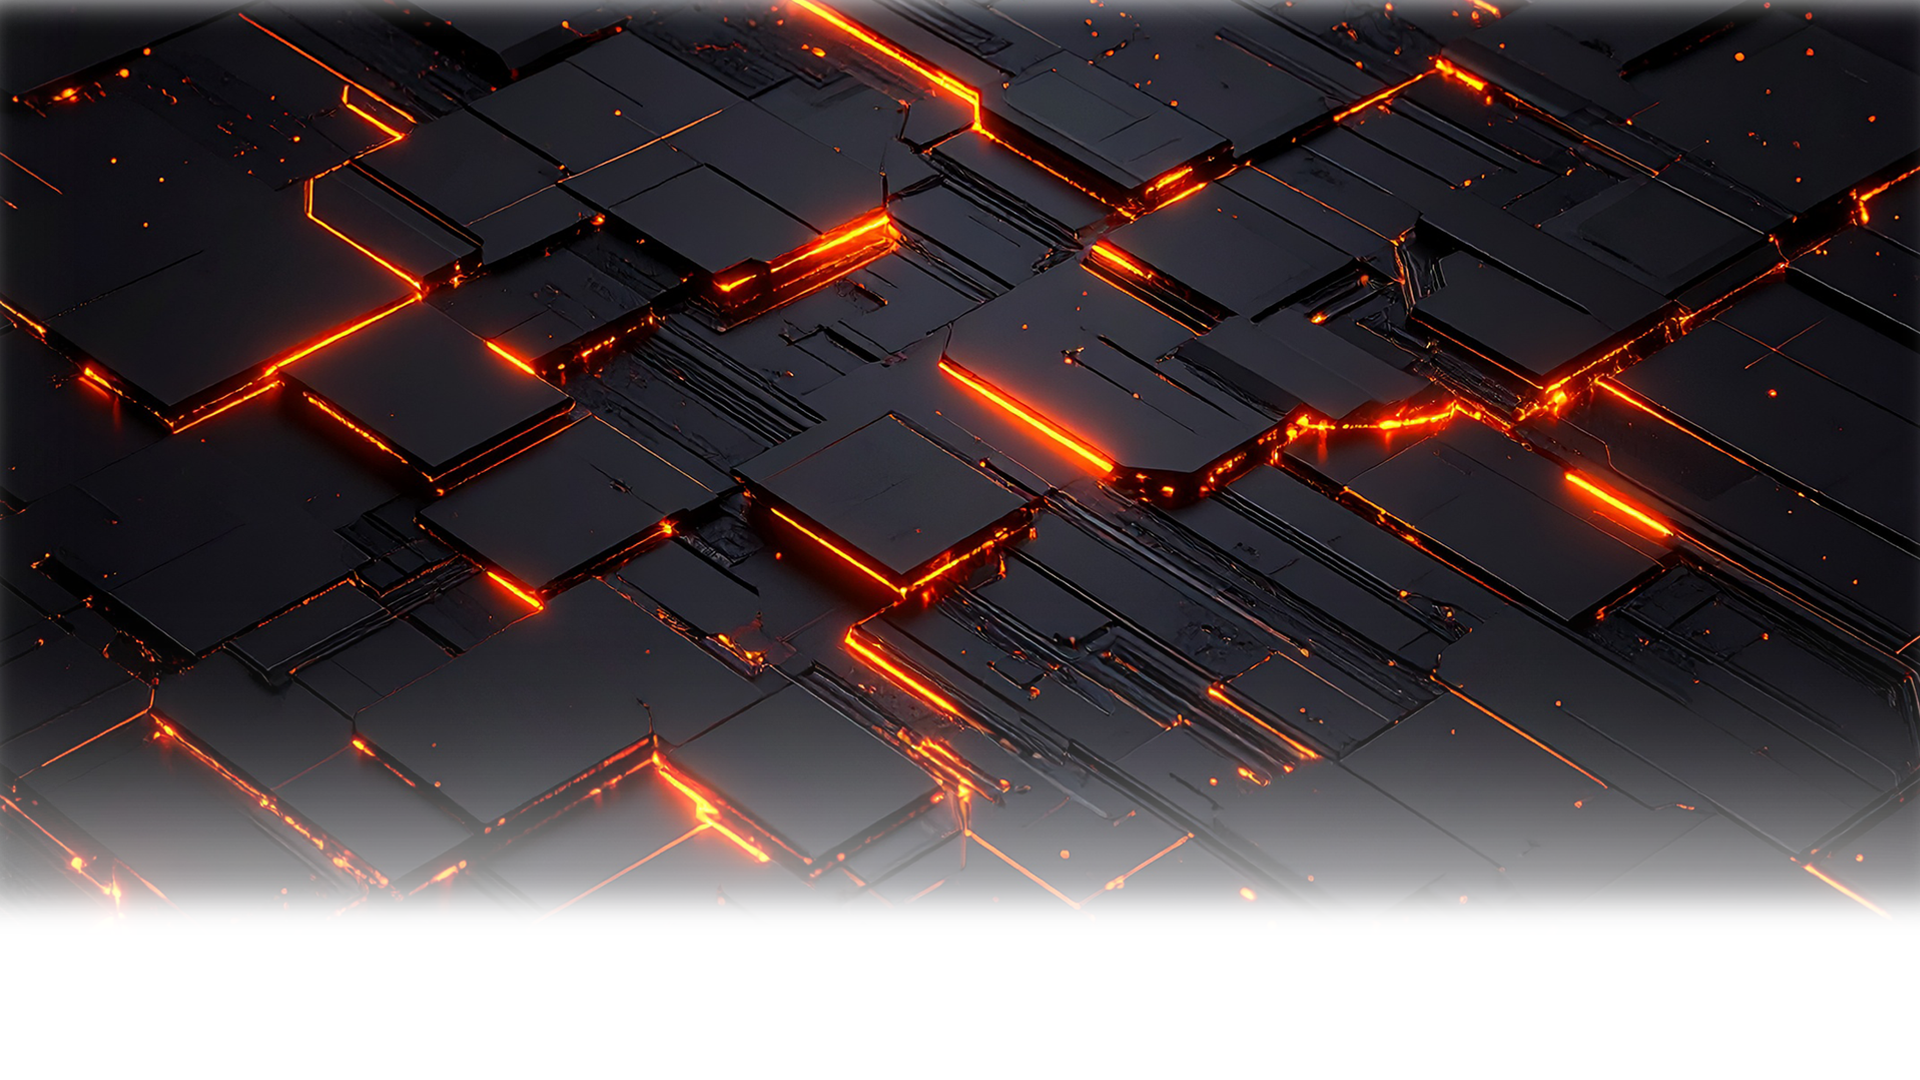
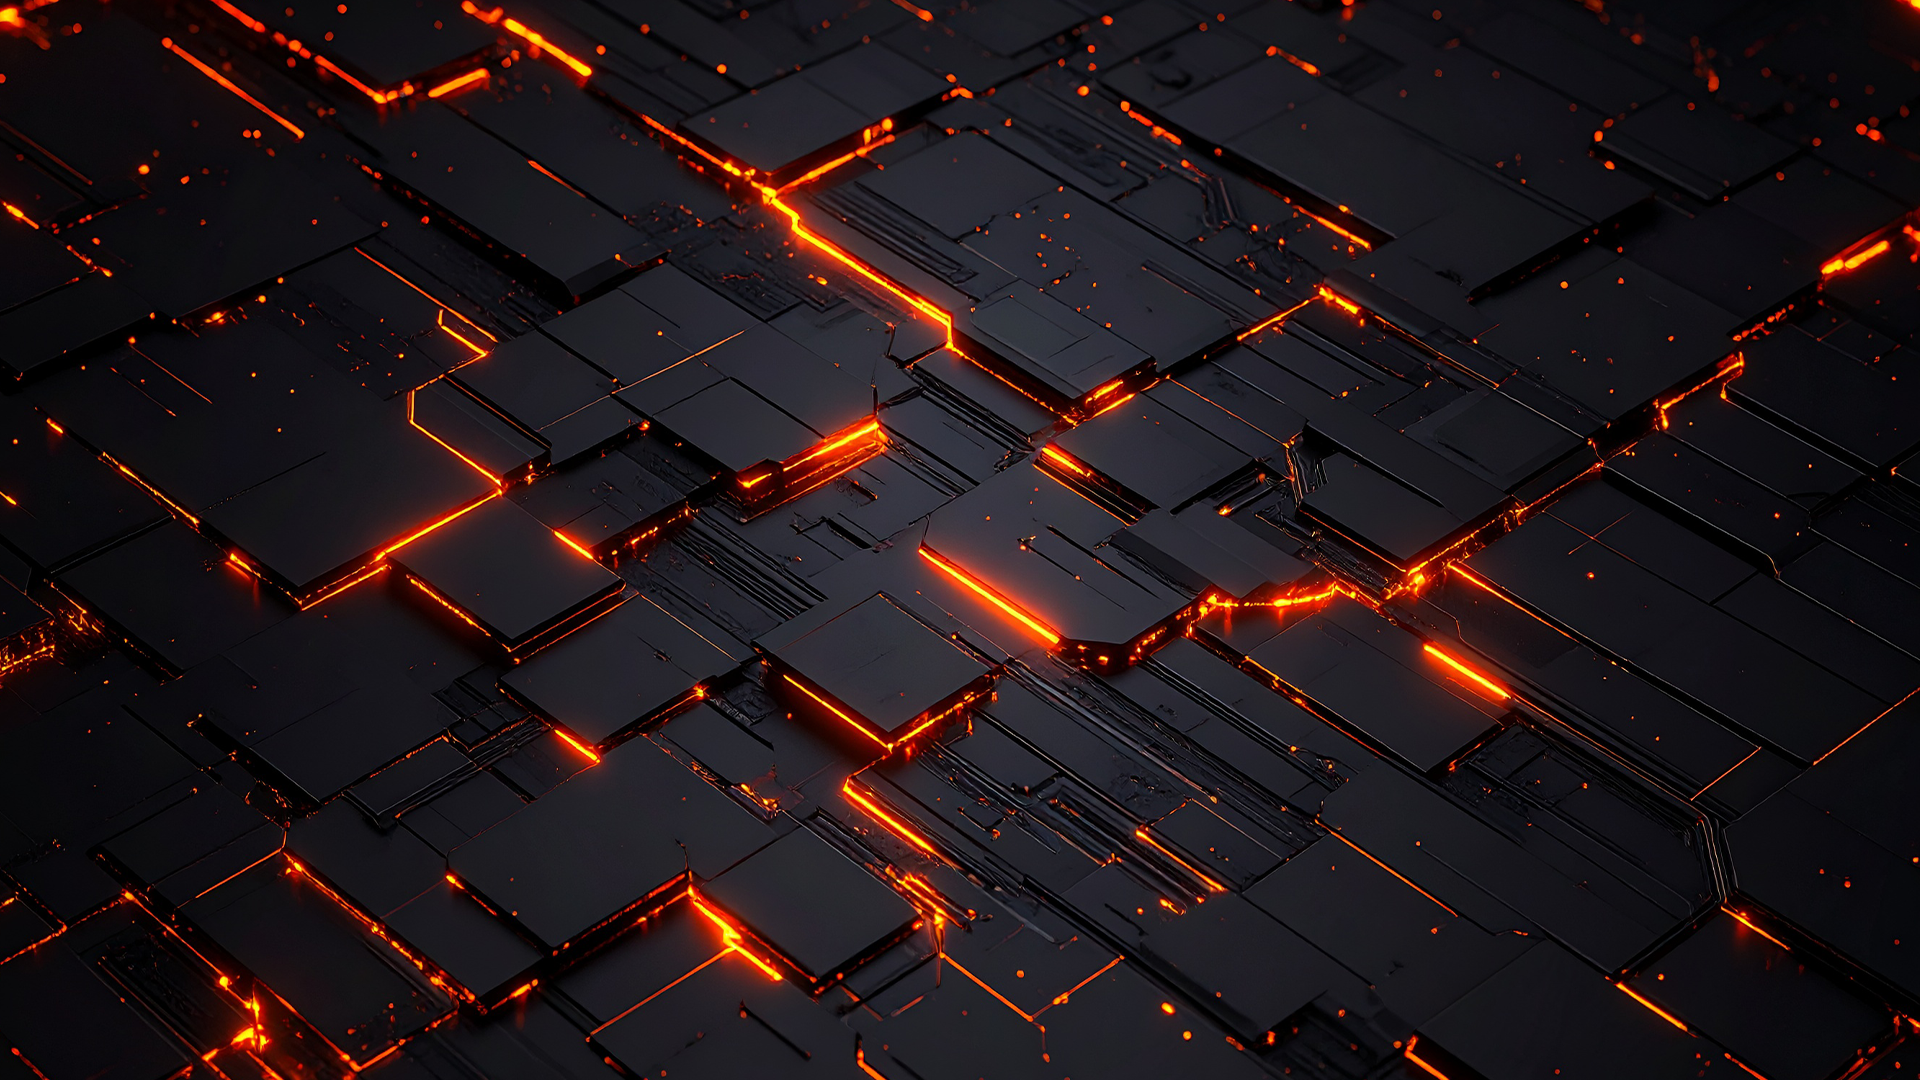
yay

diff --git a/mobile.css b/mobile.css
@@ -5,8 +5,8 @@
 
 :root{
     color-scheme: light dark;
-    --navbar-light: oklch(0.9461 0 0 / 77%);
-    --navbar-dark: oklch(0.0969 0 0 / 77%);
+    --navbar-light: oklch(0.9461 0 0 / 66%);
+    --navbar-dark: oklch(0.0969 0 0 / 66%);
     --primary-color: oklch(0.6958 0.204259 43.491);
     --secondary-color: oklch(0.7294 0.1687 34.05);
     --tertiary-color: oklch(0.7294 0.1687 34.05); 
@@ -31,6 +31,7 @@ EN EL VIEWPORT SIN NECESIDAD DE USAR MEDIAQUERIES */
     --spacing-big: clamp(3.2rem, 3.64rem + 0.56vw, 4.8rem);
 
     --radius: .8rem;
+    --radius-nav: 2.4rem;
     --primary-font:#;
     --secondary-font:#;
     --general-padding: 1.6rem;
@@ -52,9 +53,9 @@ EN EL VIEWPORT SIN NECESIDAD DE USAR MEDIAQUERIES */
 body{
 font-family: Arial, Helvetica, sans-serif;
 font-style: normal;
-line-height: 2.4rem;
 scroll-behavior: smooth;
-color: light-dark( var(--background-dark) var(--background-light));
+color: light-dark( var(--background-light), var(--background-light));
+background-color: light-dark( var(--background-light), var(--background-dark));
 }
 
 
@@ -73,44 +74,45 @@ container-name: principal;
 width: 100%;
 height: auto;
 margin: 0 auto;
-background-color: light-dark(var(--background-light), var(--background-dark));
+padding: 0;
 }
 
 /* SECCION NAVEGACION */
 
 header{
+position: absolute;
 display: flex;
 flex-direction: column;
 align-items: center;
 text-align: center;
 width: 100%;
 height: auto;
-max-height: 320px;
 border-radius: var(--radius);
+background-color: transparent;
 }
 
 .nav--menu{
 width: 100%;
 height: auto;
 margin: 0 auto;
-border-radius: var(--radius);
 z-index: 1000;
 }
 
 .menu{
     width: 100%;
+    max-width: 480px;
     height: 32px;
     display: flex;
     flex-direction: grid;
     justify-content: center;
     align-items: center;
     position: fixed;
+    border-radius: var(--radius-nav);
     padding: var(--spacing-xl);
-    margin: .32rem auto;
-    border-radius: 2.4rem;
+    margin: 0 auto;
     z-index: 1000;
-    backdrop-filter: blur(24px);
-    background-color: light-dark(var(--navbar-light), var(--navbar-dark));
+    backdrop-filter: blur(32px);
+    background-color: light-dark( var(--navbar-light), var(--navbar-dark));
 }
 
 .logo{
@@ -124,7 +126,7 @@ z-index: 1000;
     height: auto;
     padding: var(--spacing-big) var(--spacing-xs);
     font-size: var(--subtitulo);
-    color: light-dark( var(--background-dark), var(--background-light));;
+    color: light-dark( var(--background-dark), var(--background-light));
 }
 
 
@@ -133,8 +135,8 @@ z-index: 1000;
     flex-direction: column;
     justify-content: center;
     align-items: center;
-    width: 56px;
-    height: 56px;
+    width: 64px;
+    height: 64px;
     background-color: transparent;
     color: light-dark( var(--background-dark), var(--background-light));
     border: none;
@@ -145,19 +147,18 @@ z-index: 1000;
 
 .menu-list{
     position:absolute;
-    top:66px;
+    top:68px;
     margin: var(--general-margin);
     width: 100%;
     height: auto;
     color: var(--background-light);
-    padding: var(--spacing-sm) 0;
+    padding: var(--spacing-md)0;
     list-style: none;
-    border-radius: 0 0 2.4rem 2.4rem;
     opacity: 0;
     transform: scaleY(0);
     transform-origin: top;
     transition: opacity .1s, transform 0.1s;
-    font-weight: bold;
+    font-weight: 600;
     z-index: 1000;
 }
 
@@ -179,7 +180,7 @@ color: var(--primary-color);
 .menu:hover .menu-list, .menu:focus-within .menu-list{
 opacity:1;
 transform: scaleY(1);
-color: light-dark(var(--primary-color), var(--background-light));
+color: light-dark(var(--background-light), var(--primary-color));
 background-color: light-dark(var(--navbar-light), var(--navbar-dark));
 }
 
@@ -194,7 +195,7 @@ background-color: light-dark(var(--navbar-light), var(--navbar-dark));
 .nav--links a{
     text-decoration: none;
     color: var(--cuaternary-color);
-    padding: var(--spacing-xs);
+    padding: var(--spacing-xl);
     border-radius: var(--radius);
     transition: all 0.88s ease-in;
 }
@@ -203,6 +204,7 @@ background-color: light-dark(var(--navbar-light), var(--navbar-dark));
  background-color: var(--tertiary-color); 
  color: var(--cuaternary-color);
  transition: all 0.88 ease-in;  
+ padding: var(--spacing-md);
 
 }
 
@@ -210,18 +212,14 @@ background-color: light-dark(var(--navbar-light), var(--navbar-dark));
 
 
 .hero{
-position:relative;
 text-align: center;
 overflow: hidden;
-margin: var(--spacing-big) auto;
+margin: var(--general-margin);
 padding: var(--spacing-xxl) var(--spacing-xs);
  background-image:  url(./hero.png);
  background-size:cover;
  width: 100%;
- min-width: 1280px;
- height: 100%;
- min-height: 1080px;
-
+ height: 1080px;
  /* 
  background: linear-gradient(190deg,
   oklch(0.0969 0 0 / 1%) 33%,
@@ -232,9 +230,6 @@ oklch(0.6958 0.204259 43.491 / 90%) 100%,
  */
 }
 
-
-
-
 .logo-pampa{
     display: flex;
     flex-direction: column;
@@ -243,7 +238,7 @@ oklch(0.6958 0.204259 43.491 / 90%) 100%,
     height: auto;
     align-items: center;
     justify-content: center;
-    margin: var(--spacing-md) auto;
+    margin: var(--spacing-big) auto;
     cursor: pointer;
     padding: var(--spacing-xs);
 }
@@ -304,7 +299,7 @@ box-shadow: 0 4px 5px rgba(32, 2, 2, 0.222) ;
 padding: var(--spacing-big) var(--spacing-md);
 view-timeline-name: --scroll-proyectos;
 view-timeline-axis: block;
-background-color: light-dark( var(--background-light) var(--background-dark));
+background-color: light-dark( var(--background-light), var(--background-dark));
 border-radius: var(--radius);
 margin: var(--spacing-xs) 0;
 }
@@ -323,7 +318,7 @@ margin: var(--spacing-xs) 0;
 .proyecto--card{
 border-radius: var(--radius);
 overflow: hidden;
-background-color: light-dark( var(--background-light) var(--background-dark));
+background-color: light-dark( var(--background-light,) var(--background-dark));
 box-shadow: 0 1px 2px rgba(0,0,0,.1);
 content-visibility: auto;
 contain-intrinsic-size: 0 300px;
@@ -400,7 +395,7 @@ padding: var(--spacing-md);
 .proyecto--data p{
     font-size: var(--parrafo);
     margin-bottom: var(--spacing-sm);
-    color: light-dark( var(--background-light) var(--background-dark));
+    color: light-dark( var(--background-dark), var(--background-light));
     line-height: 1.6rem;
 }
 
@@ -659,7 +654,7 @@ animation-range: entry 20% cover 50%;
 .contacto--container{
 padding: var(--spacing-xl) 0 ;
 text-align: center;
-background-color: light-dark( var(--background-light) var(--background-dark));
+background-color: light-dark( var(--background-light), var(--background-dark));
 border-radius: var(--radius);
 margin: var(--spacing-xs) 0;
 opacity: .888;
@@ -668,7 +663,7 @@ opacity: .888;
 .contacto--container h2{
     font-size: var(--subtitulo);
     margin-bottom: var(--spacing-xs);
-    color: light-dark( var(--background-light) var(--background-dark));
+    color: light-dark( var(--background-dark), var(--background-light));
 }
 .formulario--contacto{
 max-width: 640px;
@@ -685,6 +680,7 @@ text-align: left;
     margin-bottom: var(--spacing-xs);
     font-weight: bold;
     font-size: var(--parrafo);
+    color: light-dark(var(--background-dark), var(--background-light));
 }
 
 .grupo--formulario:focus-within label{
@@ -762,6 +758,10 @@ text-align: center;
     .problem--grid{
         grid-template-columns: 1fr;
     }
+
+    .menu-list{
+    top:64px;
+}
 }
 
 
